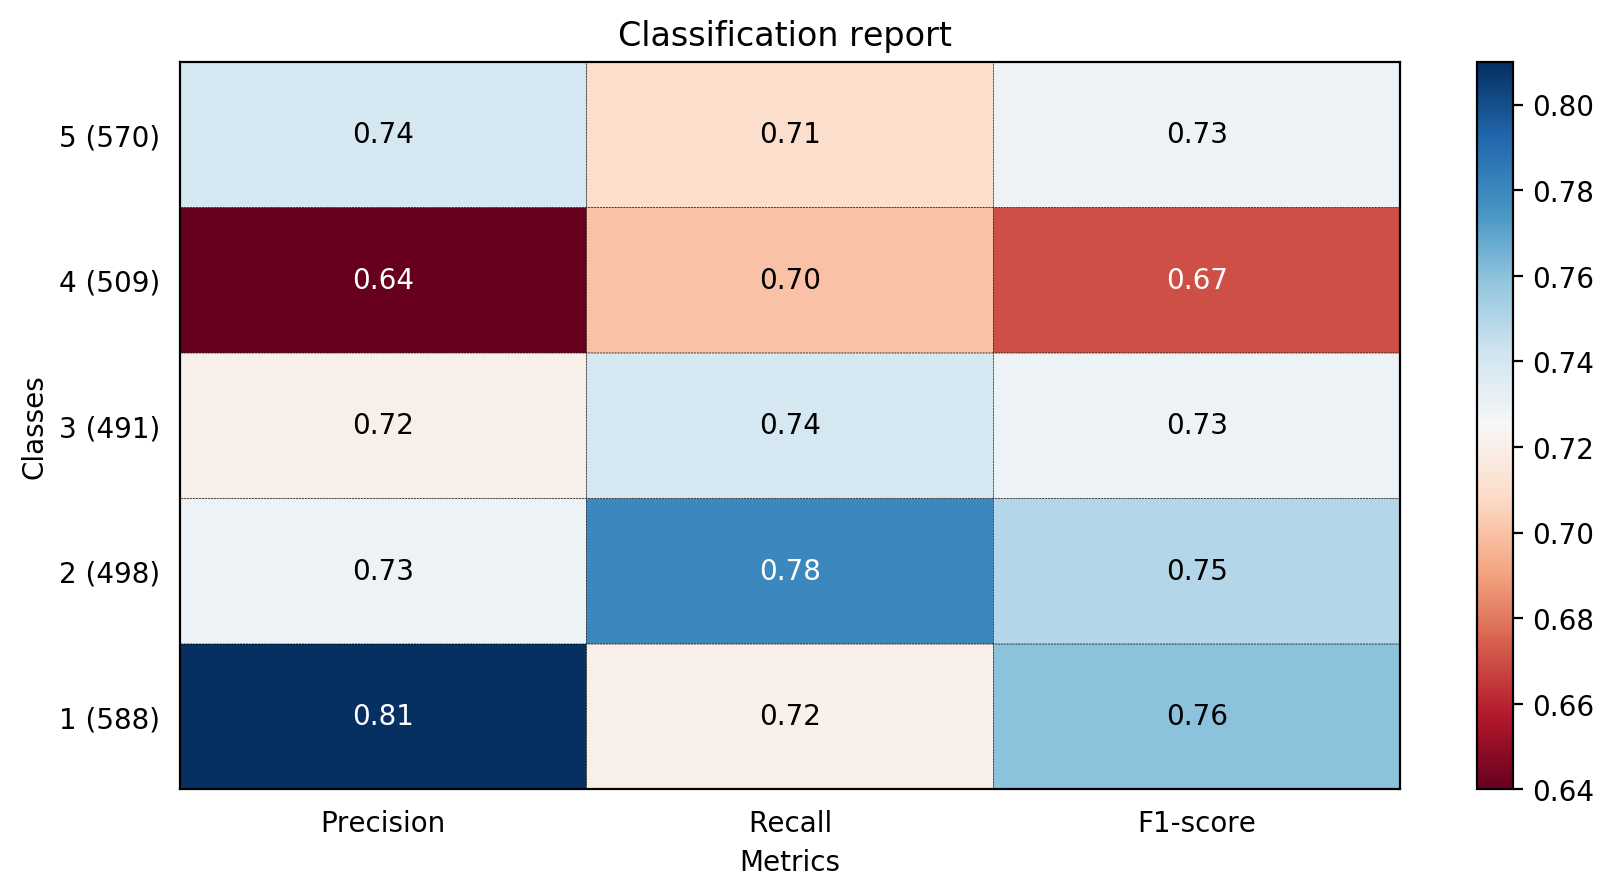
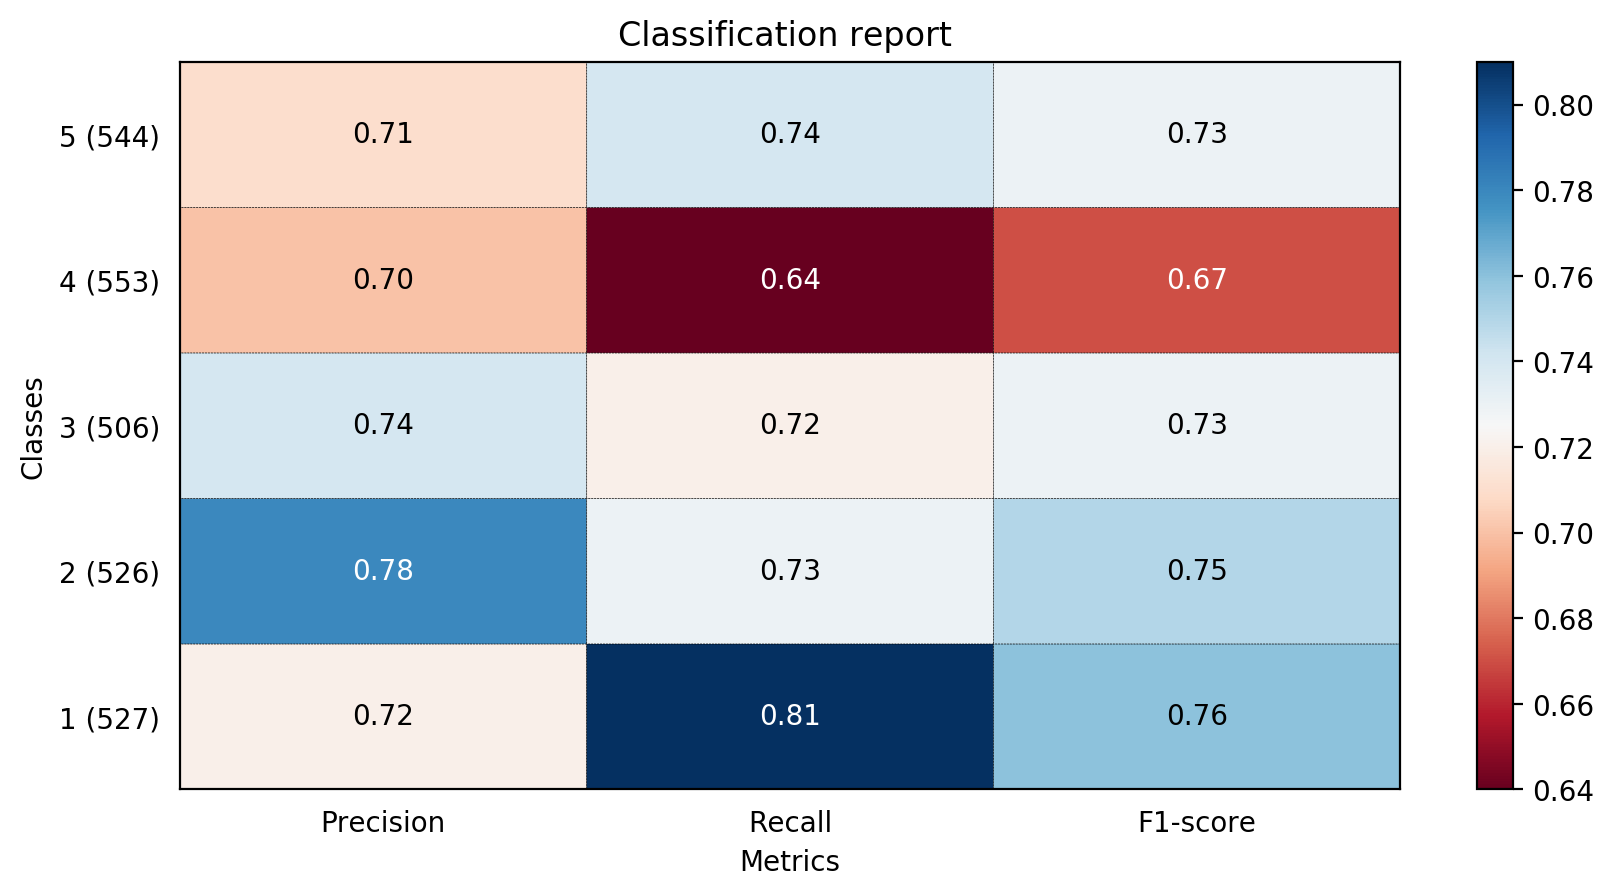
Fix results

diff --git a/main.py b/main.py
@@ -16,7 +16,7 @@ from sklearn.model_selection import train_test_split
 from sklearn.ensemble import RandomForestClassifier
 from sklearn.pipeline import Pipeline, FeatureUnion
 from sklearn.preprocessing import StandardScaler, FunctionTransformer
-from sklearn.metrics import classification_report
+from sklearn.metrics import classification_report, confusion_matrix
 
 import os.path
 
@@ -94,9 +94,10 @@ def main():
         ppl = pickle.load(open(PICKLE_PATH, 'rb'))
 
     y = ppl.predict(X_test)
-    print(classification_report(y, Y_test))
+    print(classification_report(Y_test, y))
+    print(confusion_matrix(Y_test, y))
 
-    plot_classification_report(classification_report(y, Y_test))
+    plot_classification_report(classification_report(Y_test, y))
     plt.savefig('test_plot_classif_report.png', dpi=200, format='png', bbox_inches='tight')
     plt.close()
 

diff --git a/util/visualize.py b/util/visualize.py
@@ -39,7 +39,6 @@ def heatmap(AUC, title, xlabel, ylabel, xticklabels, yticklabels, figure_width=4
 
     # Plot it out
     fig, ax = plt.subplots()    
-    #c = ax.pcolor(AUC, edgecolors='k', linestyle= 'dashed', linewidths=0.2, cmap='RdBu', vmin=0.0, vmax=1.0)
     c = ax.pcolor(AUC, edgecolors='k', linestyle= 'dashed', linewidths=0.2, cmap=cmap)
 
     # put the major ticks at the middle of each cell
@@ -47,7 +46,6 @@ def heatmap(AUC, title, xlabel, ylabel, xticklabels, yticklabels, figure_width=4
     ax.set_xticks(np.arange(AUC.shape[1]) + 0.5, minor=False)
 
     # set tick labels
-    #ax.set_xticklabels(np.arange(1,AUC.shape[1]+1), minor=False)
     ax.set_xticklabels(xticklabels, minor=False)
     ax.set_yticklabels(yticklabels, minor=False)
 

diff --git a/README.md b/README.md
@@ -64,8 +64,8 @@ Classification reports of several classifiers.
 |Classifier         |Precision|Recall  |F1      | 
 |-------------------|---------|--------|--------|
 |Logistic Regression|0.73     |0.73    |0.73    |
-|SVM                |0.66     |0.48    |0.53    |
-|**Random Forest**  |**0.77** |**0.76**|**0.76**|
+|SVM                |0.63     |0.48    |0.42    |
+|**Random Forest**  |**0.77** |**0.77**|**0.77**|
 
 Random Forest seems to perform slightly better than Logistic Regression, while SVM stays far behind.
 
